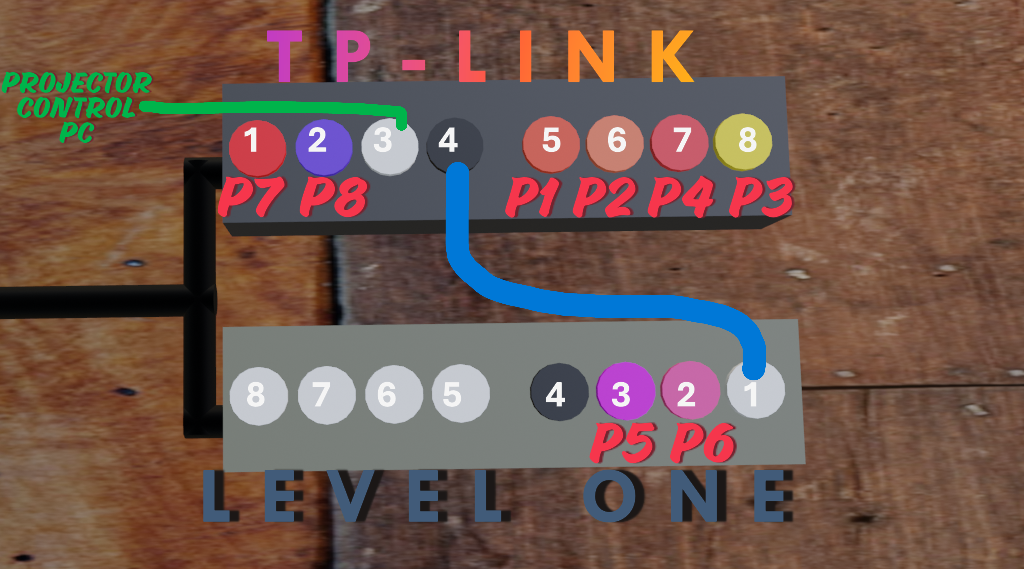
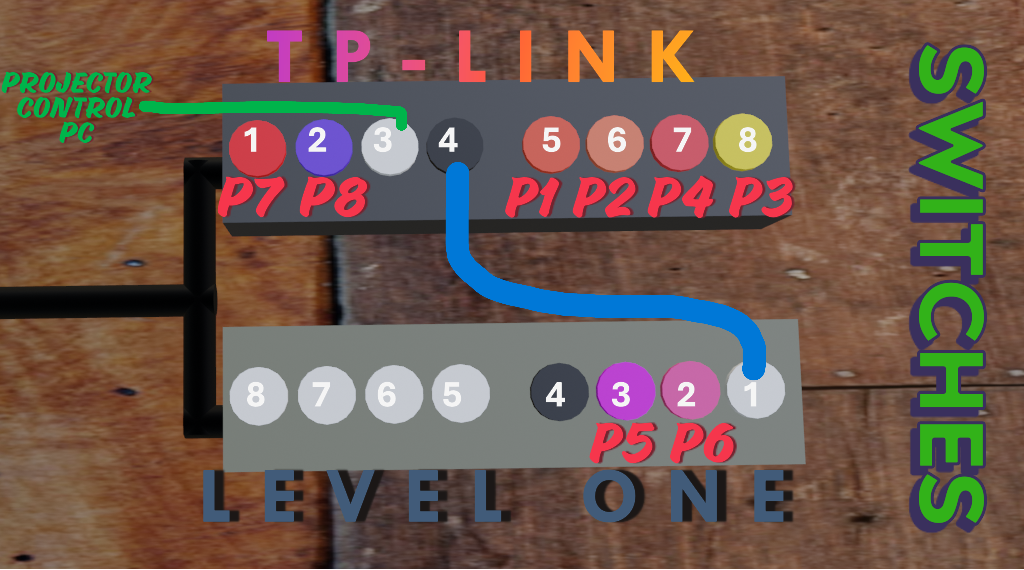
Completing image texture

Changed region(s): [[0.875, 0.0596, 0.9688, 0.9544]]

diff --git a/index.html b/index.html
@@ -70,8 +70,7 @@
       <div id="ar-prompt">
           <img src="ar_hand_prompt.png">
       </div>
-    </model-viewer> 
-     <img src="SWITCHES.PNG" alt="switches" width="1024" height="570"> 
+    </model-viewer>  
     <script src="script.js"></script>
     <!-- Loads <model-viewer> for browsers: -->
     <script type="module" src="https://ajax.googleapis.com/ajax/libs/model-viewer/4.0.0/model-viewer.min.js"></script>
